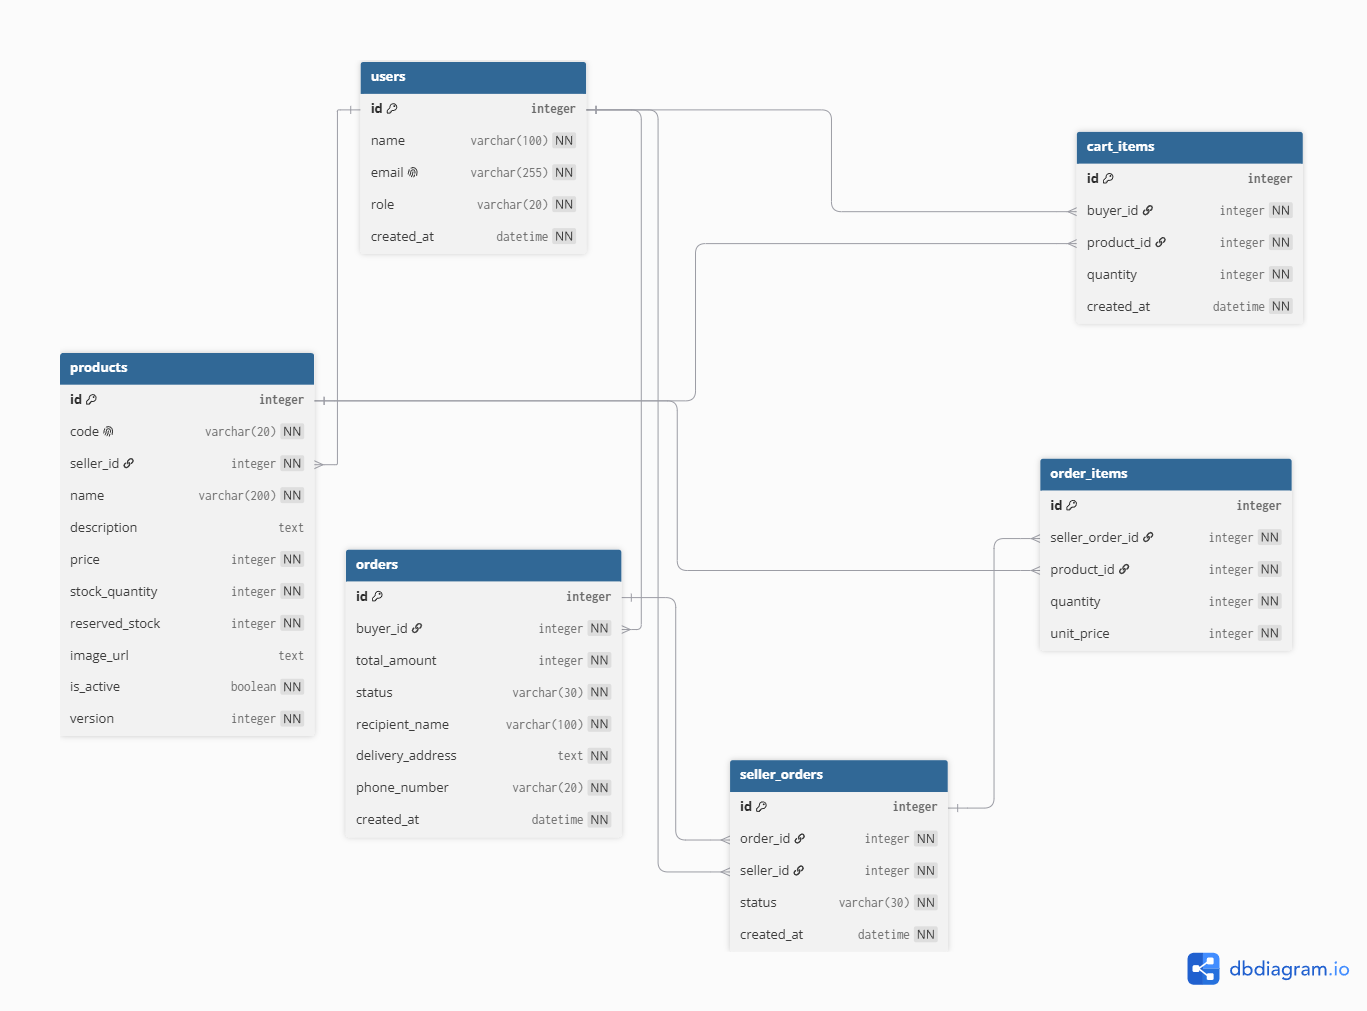
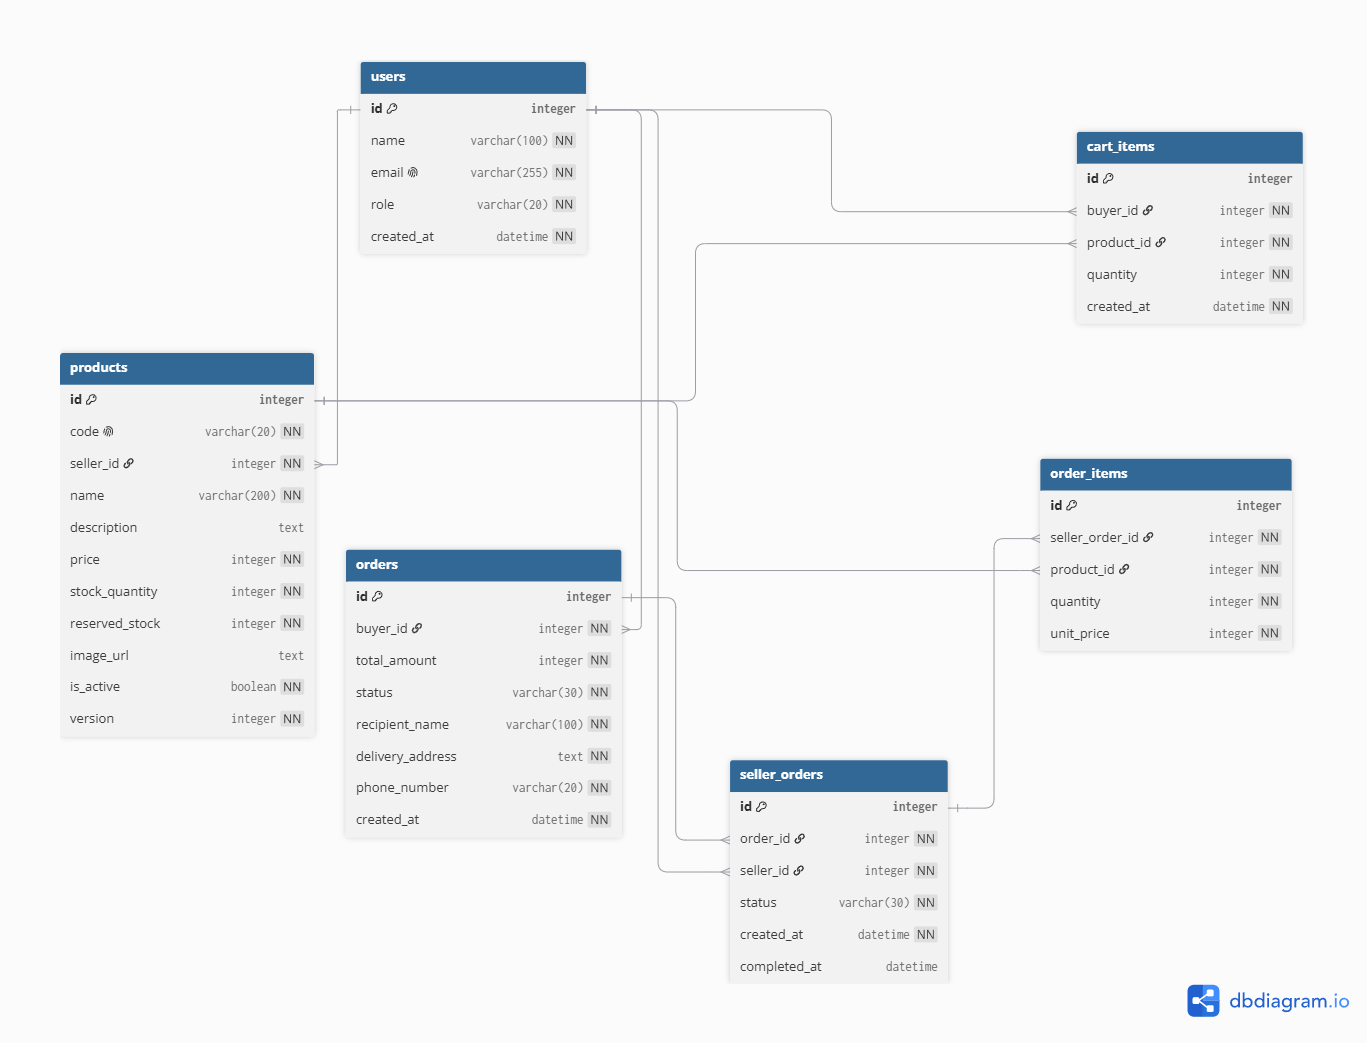
docs: address database design review feedback
Refs #44

diff --git a/docs/design.md b/docs/design.md
@@ -129,6 +129,7 @@ A marketplace order may contain products from multiple sellers. Therefore, selle
 | `seller_id` | INTEGER | NOT NULL, Foreign Key → `users.id` |
 | `status` | VARCHAR(30) | NOT NULL |
 | `created_at` | DATETIME | NOT NULL |
+| `completed_at` | DATETIME | NULL; set when status becomes `COMPLETED` |
 
 Additional constraint:
 
@@ -139,6 +140,16 @@ UNIQUE(order_id, seller_id)
 This ensures that one seller has only one seller-specific order inside a given marketplace order.
 
 The `status` field allows each seller to manage their own fulfillment process independently from other sellers participating in the same buyer order.
+
+The `completed_at` field records when the seller-specific order reaches the `COMPLETED` state. It remains `NULL` while the seller order has not been completed.
+
+For seller analytics, `seller_orders.status` is the canonical fulfillment status. Revenue and best-selling calculations include only seller orders where:
+
+```text
+seller_orders.status = COMPLETED
+```
+
+The selected analytics period is evaluated using `seller_orders.completed_at`, not the original marketplace order creation timestamp.
 
 ---
 
@@ -246,6 +257,8 @@ Important relational constraints are mapped to the Milestone 1 business rules be
 | `UNIQUE(order_id, seller_id)` | BR6 | Creates one seller-specific order per seller inside a marketplace order |
 | `order_items.unit_price` | BR7 | Preserves purchase-time prices for historical revenue calculations |
 | `order_items.quantity > 0` | BR7 / BR10 | Ensures purchased quantities used in revenue and analytics are valid |
+| `seller_orders.status = COMPLETED` | BR7 / BR10 | Ensures revenue and best-selling analytics include only completed seller sales |
+| `seller_orders.completed_at` | BR7 / BR10 | Provides the completion timestamp used to filter analytics by selected period |
 
 Some Milestone 1 business rules require application-level or transaction-level validation in addition to database constraints.
 
@@ -273,7 +286,37 @@ The checkout operation should perform the following steps inside one database tr
 
 If any step fails, the transaction must roll back so that no partial order or inconsistent stock update remains.
 
-This design prevents a situation where two buyers successfully purchase the same remaining stock at the same time.
+A database transaction alone is not sufficient to prevent overselling when multiple checkout requests update the same product concurrently.
+
+The design uses optimistic concurrency control through `products.version`.
+
+For each product during checkout:
+
+```text
+1. Read the latest stock_quantity and version.
+2. Verify that the requested quantity is available.
+3. Update the product only if its version is still unchanged.
+4. Decrease stock and increment version atomically.
+5. If no row is updated, another transaction changed the product first;
+   reject the checkout and revalidate instead of creating the order.
+```
+
+Conceptually:
+
+```sql
+UPDATE products
+SET stock_quantity = stock_quantity - :quantity,
+    version = version + 1
+WHERE id = :product_id
+  AND version = :expected_version
+  AND stock_quantity >= :quantity;
+```
+
+If the update affects zero rows, checkout must fail or revalidate.
+
+The inventory update and creation of `orders`, `seller_orders`, and `order_items` remain inside the same transaction. If any step fails, the complete transaction is rolled back.
+
+This strategy supports BR8 by ensuring that the latest inventory is revalidated and updated atomically before order creation.
 
 ---
 
@@ -316,6 +359,20 @@ The current implementation filters the public product catalog using:
 
 ```text
 is_active = true
+```
+
+#### Product visibility terminology
+
+`is_active` is the canonical persistence field used by the current Product model and by this relational design.
+
+Milestone 1 BR1 also describes purchasable products as active.
+
+If earlier API documentation uses `is_published`, it refers to the same catalog-visibility concept. The project should standardize on `is_active` rather than storing both `is_active` and `is_published`.
+
+Therefore, the relational schema contains only:
+
+```text
+is_active
 ```
 
 The ERD and table definitions in this document therefore retain the existing `is_active` field.
@@ -361,4 +418,4 @@ Store purchased items
 Seller manages own order
 ```
 
-The ERD in `docs/images/erd.png` must remain consistent with all table definitions, primary keys, foreign keys, and cardinalities documented in this section.
+The ERD in `docs/images/design_erd.png` must remain consistent with all table definitions, primary keys, foreign keys, and cardinalities documented in this section.
